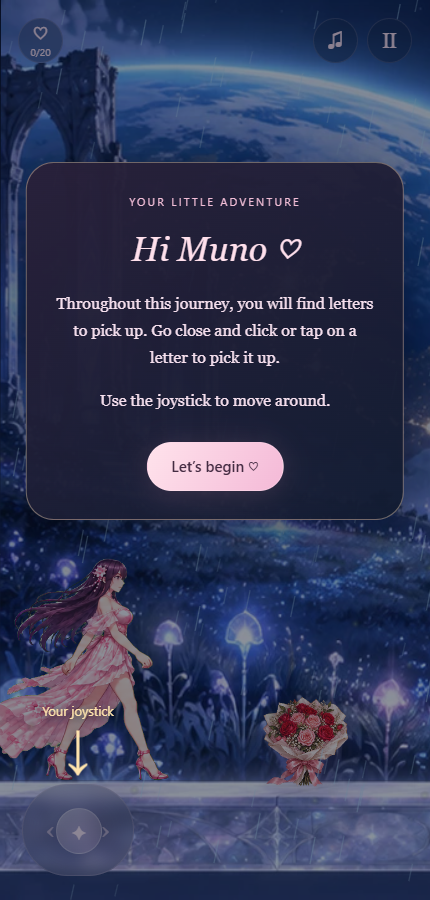
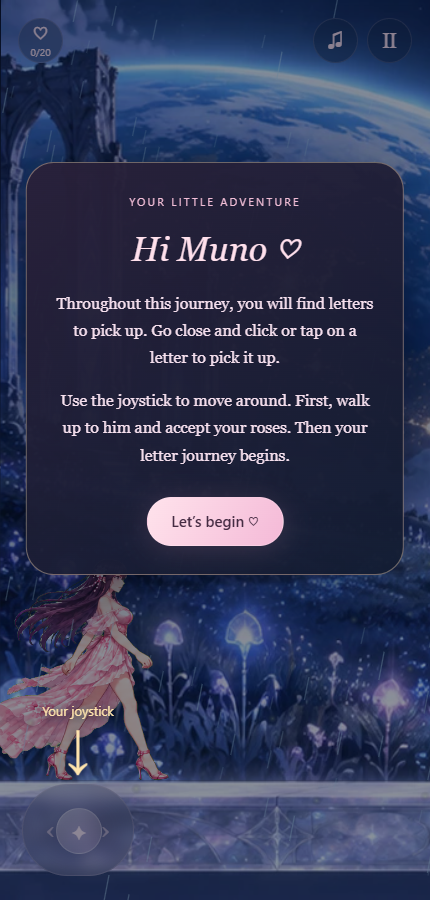
add boy

diff --git a/game.js b/game.js
@@ -11,6 +11,7 @@ let W=390,H=844,V=462,S=.844,assets={},meta={},backgrounds=[],letters=[],loaded=
 let WORLD=19800,END=19150,segmentWidth=3000,overlap=200;
 const START=125,BOUQUET=340,BASE=867;
 let phase='entrance',clock=0,total=0,x=START,velocity=0,input=0,camera=0,gait=0,face=1,carrying=false,collected=new Set(),passed=new Set(),completed=false,manualPause=false,muted=false,active=false,near=null;
+let flowerIntro={state:'idle',boy:0,start:0,from:START};
 let pointer=null,keys=new Set(),modalLetter=null,toastTimer,pickup=null;
 let cinematic={girl:0,boy:0,startGirl:0,boyStart:0},petals=[],stars=[],sparks=[],rockets=[],fireworkTimer=0,wind=0,mini=null,fireworkBeat=0,blooms=[],petalBursts=[],lastEffectCamera=0;
 const finaleVideo=$('finale-video');
@@ -51,7 +52,7 @@ $('secret').onsubmit=async e=>{e.preventDefault();if(norm($('answer').value)!==n
 function positionJourneyPointer(){const r=$('joystick').getBoundingClientRect();$('joystick-pointer').style.left=(r.left+r.width/2)+'px';$('joystick-pointer').style.top=(r.top-83)+'px';}
 function showJourneyHelp(){stop();$('journey-help').showModal();positionJourneyPointer();$('help-start').focus();updateAction();}
 $('help-start').onclick=()=>{$('journey-help').close();};
-$('journey-help').addEventListener('close',()=>{stop();updateAction();$('right').focus({preventScroll:true});});
+$('journey-help').addEventListener('close',()=>{stop();updateAction();$('right').focus({preventScroll:true});if(active&&!carrying&&flowerIntro.state==='idle')beginFlowerIntro();});
 window.addEventListener('resize',()=>{if($('journey-help').open)positionJourneyPointer();});
 window.visualViewport?.addEventListener('resize',()=>{if($('journey-help').open)positionJourneyPointer();});
 function updateCount(){$('letter-count').textContent=`${collected.size}/${letters.length}`;$('journal-button').setAttribute('aria-label',`Your letters: ${collected.size} of ${letters.length} collected`);}
@@ -103,10 +104,10 @@ $('video-play').onclick=playFinaleVideo;
 $('video-continue').onclick=finishFinaleVideo;
 finaleVideo.addEventListener('ended',finishFinaleVideo);
 finaleVideo.addEventListener('error',()=>{if(phase!=='video')return;$('video-status').textContent='The video could not load. You can try again or continue.';$('video-play').hidden=false;});
-function updateAction(){let text=null;if(phase==='explore'&&near==='bouquet')text='Pick up roses ♡';if(phase==='offer')text=C.finale.handButton;if(phase==='cake')text=C.finale.candleButton;$('action').hidden=!text||blocked();if(text)$('action').textContent=text;$('action').classList.toggle('cinematic',phase!=='explore');}
-function findNear(){near=null;if(!carrying&&Math.abs(x-BOUQUET)<155)near='bouquet';else{let d=140;letters.forEach((l,i)=>{if(Math.abs(x-l.x)<d){near=i;d=Math.abs(x-l.x);}});}updateAction();}
-$('action').onclick=()=>{if(blocked())return;if(phase==='explore'&&near==='bouquet'){beginPickup('bouquet');}else if(phase==='explore'&&Number.isInteger(near)){requestLetter(near);}else if(phase==='offer'){setPhase('hold');chime('win');for(let i=0;i<160*density;i++)petals.push(makePetal(true));}else if(phase==='cake'){setPhase('blow');chime('wind');wind=1;}};
-function requestLetter(i){if(phase!=='explore'||blocked())return;beginPickup(i);}
+function updateAction(){let text=null;if(phase==='explore'&&near==='bouquet')text='Accept his flowers ♡';if(phase==='offer')text=C.finale.handButton;if(phase==='cake')text=C.finale.candleButton;$('action').hidden=!text||blocked();if(text)$('action').textContent=text;$('action').classList.toggle('cinematic',phase!=='explore');}
+function findNear(){near=null;if(!carrying&&flowerIntro.state==='waiting'&&Math.abs(x-(BOUQUET-75))<50)near='bouquet';else{let d=140;letters.forEach((l,i)=>{if(Math.abs(x-l.x)<d){near=i;d=Math.abs(x-l.x);}});}updateAction();}
+$('action').onclick=()=>{if(blocked())return;if(phase==='explore'&&near==='bouquet'){acceptIntroFlowers();}else if(phase==='explore'&&Number.isInteger(near)){requestLetter(near);}else if(phase==='offer'){setPhase('hold');chime('win');for(let i=0;i<160*density;i++)petals.push(makePetal(true));}else if(phase==='cake'){setPhase('blow');chime('wind');wind=1;}};
+function requestLetter(i){if(phase!=='explore'||blocked()||!carrying)return;beginPickup(i);}
 function beginPickup(target){
  if(phase!=='explore'||blocked())return;
  const itemX=target==='bouquet'?BOUQUET:letters[target].x;
@@ -130,19 +131,35 @@ function pickupPose(){
 function openLetter(i){stop();modalLetter={...letters[i],i};const l=modalLetter;collected.add(i);passed.add(i);$('letter-number').textContent=`${String(i+1).padStart(2,'0')} / ${letters.length} · FOR ${C.nickname.toUpperCase()}`;$('letter-title').textContent=l.title;$('message').textContent=l.message.replaceAll('{{nickname}}',C.nickname).replaceAll('{{name}}',C.recipientName).replaceAll('{{sender}}',C.senderName);$('signature').textContent=l.signature||`With love, ${C.senderName}`;$('photo').hidden=!l.picture;if(l.picture){$('photo-img').src=l.picture;$('photo-img').alt=l.imageAlt||'Our little memory';}$('caption').textContent=l.caption||'';$('letter-animation').hidden=!l.animation.file;if(l.animation.file)$('letter-animation').src=`${l.folder}/${l.animation.file}`;$('continue').textContent=i===letters.length-1?'A little further… ♡':'Keep it in my heart ♡';$('letter').showModal();$('letter').scrollTop=0;window.writeBirthdayLetter?.($('message').textContent,i);if(l.music){song.src=l.music;song.load();}soundSync();updateCount();updateAction();}
 function closeLetter(){$('letter').close();}$('close-letter').onclick=closeLetter;$('continue').onclick=closeLetter;$('letter').addEventListener('close',()=>{if($('letter').open)return;modalLetter=null;soundSync();updateAction();});$('photo-img').onerror=()=>{$('photo').hidden=true;};$('letter-animation').onerror=()=>{$('letter-animation').hidden=true;};song.onerror=()=>{if(modalLetter){modalLetter.music=null;soundSync();}};
 function showJournal(){stop();$('journal-title').textContent=`${letters.length} little letters`;$('journal-list').replaceChildren();letters.forEach((l,i)=>{const b=document.createElement('button');b.disabled=!collected.has(i);b.textContent=collected.has(i)?`♡  ${l.title}`:`✧  Letter ${i+1}`;b.onclick=()=>{$('journal').close();openLetter(i);};$('journal-list').append(b);});$('reset-confirm').hidden=true;$('journal').showModal();updateAction();}
-$('journal-button').onclick=showJournal;$('ending-journal').onclick=showJournal;$('close-journal').onclick=()=>$('journal').close();$('journal').addEventListener('close',updateAction);$('restart').onclick=()=>{$('reset-confirm').hidden=false;};$('reset-no').onclick=()=>{$('reset-confirm').hidden=true;};$('reset-yes').onclick=()=>{collected.clear();passed.clear();carrying=false;completed=false;x=START;camera=0;bg.src=C.backgroundMusic;bg.load();$('journal').close();setPhase('explore');updateCount();soundSync();};$('replay').onclick=()=>{completed=false;beginCinema();};
+$('journal-button').onclick=showJournal;$('ending-journal').onclick=showJournal;$('close-journal').onclick=()=>$('journal').close();$('journal').addEventListener('close',updateAction);$('restart').onclick=()=>{$('reset-confirm').hidden=false;};$('reset-no').onclick=()=>{$('reset-confirm').hidden=true;};$('reset-yes').onclick=()=>{collected.clear();passed.clear();carrying=false;completed=false;x=START;camera=0;bg.src=C.backgroundMusic;bg.load();$('journal').close();setPhase('explore');updateCount();soundSync();beginFlowerIntro();};$('replay').onclick=()=>{completed=false;beginCinema();};
 function togglePause(){manualPause=!manualPause;$('pause-screen').hidden=!manualPause;$('pause').setAttribute('aria-pressed',String(manualPause));$('pause').setAttribute('aria-label',manualPause?'Continue adventure':'Pause adventure');stop();soundSync();updateAction();}$('pause').onclick=togglePause;$('resume').onclick=togglePause;
 function setInput(n){input=n;$('stick').style.transform=`translateX(${n*22}px)`;}
 function touchMove(e){if(e.pointerId!==pointer)return;const r=$('joystick').getBoundingClientRect(),dx=e.clientX-r.left-r.width/2;setInput(Math.abs(dx)<7?0:Math.sign(dx));}
 $('joystick').addEventListener('pointerdown',e=>{if(phase!=='explore'||blocked())return;pointer=e.pointerId;$('joystick').setPointerCapture(pointer);touchMove(e);e.preventDefault();});$('joystick').addEventListener('pointermove',touchMove);['pointerup','pointercancel','lostpointercapture'].forEach(n=>$('joystick').addEventListener(n,stop));
 window.addEventListener('keydown',e=>{if(!active||blocked())return;if(phase==='explore'&&['arrowright','arrowleft','a','d'].includes(e.key.toLowerCase())){e.preventDefault();keys.add(e.key.toLowerCase());setInput((keys.has('arrowright')||keys.has('d')?1:0)-(keys.has('arrowleft')||keys.has('a')?1:0));}if(e.key.toLowerCase()==='e'){if(phase==='explore'&&Number.isInteger(near))requestLetter(near);else if(!$('action').hidden)$('action').click();}});window.addEventListener('keyup',e=>{keys.delete(e.key.toLowerCase());if(pointer===null)setInput((keys.has('arrowright')||keys.has('d')?1:0)-(keys.has('arrowleft')||keys.has('a')?1:0));});['left','right'].forEach((id,i)=>{$(id).addEventListener('keydown',e=>{if(e.key===' '||e.key==='Enter'){e.preventDefault();setInput(i?1:-1);}});$(id).addEventListener('keyup',e=>{if(e.key===' '||e.key==='Enter')stop();});});window.addEventListener('blur',()=>{stop();});document.addEventListener('visibilitychange',()=>{stop();soundSync();});
+function beginFlowerIntro(){flowerIntro={state:'arriving',boy:camera+V+160,start:camera+V+160,from:x};setPhase('flowerArrival');$('live').textContent='He arrives with roses, dressed in black.';}
+function acceptIntroFlowers(){if(flowerIntro.state!=='waiting'||blocked())return;flowerIntro.from=x;flowerIntro.state='giving';setPhase('flowerAccept');}
+function tickFlowerIntro(dt){
+ if(phase==='flowerArrival'){flowerIntro.boy=mix(flowerIntro.start,BOUQUET+45,stroll(clock/3.8));if(clock>=3.8)setPhase('flowerKneel');}
+ else if(phase==='flowerKneel'){if(clock>=1.6){flowerIntro.state='waiting';setPhase('explore');toast('Come closer, my precious girl. These roses are for you. ♡');}}
+ else if(phase==='flowerAccept'){const old=x;x=mix(flowerIntro.from,BOUQUET-75,ease(clock/.5));gait+=Math.abs(x-old)/210;if(clock>=4.8){carrying=true;flowerIntro.state='farewell';setPhase('flowerFarewell');chime('win');}}
+ else if(phase==='flowerFarewell'&&clock>=1.3){flowerIntro.state='done';setPhase('explore');toast('Keep these roses close. Your letter journey begins now. ♡');}
+}
+function drawFlowerIntro(now){
+ if(phase==='flowerArrival'||phase==='flowerKneel'){drawGirl(x-camera,false,now);const frame=phase==='flowerArrival'?Math.floor(clock*6)%8:Math.min(11,8+Math.floor(clock/1.6*4));sprite('intro-boy',frame,flowerIntro.boy-camera,BASE,260,true);return;}
+ if(phase==='flowerAccept'&&clock<.5){drawGirl(x-camera,true,now);sprite('intro-boy',11,flowerIntro.boy-camera,BASE,260,true);return;}
+ const center=(BOUQUET-75+flowerIntro.boy)/2-camera;
+ if(phase==='flowerAccept')sprite('intro-giving',Math.min(7,Math.floor((clock-.5)/4.3*8)),center,BASE,260);
+ else{const fade=ease(clock/1.3);sprite('intro-giving',7,center,BASE,260,false,0,1-fade);ctx.save();ctx.globalAlpha=fade;drawGirl(x-camera,false,now);ctx.restore();}
+}
 function strollDuration(a,b){return Math.max(2.8,Math.abs(b-a)/(C.boyWalkSpeed||135));}
 function stroll(t){t=clamp(t,0,1);const r=.15;if(t<r)return t*t/(2*r*(1-r));if(t>1-r)return 1-(1-t)*(1-t)/(2*r*(1-r));return (t-r/2)/(1-r);}
 function beginCinema(){if(collected.size!==letters.length)return;stop();x=END;camera=clamp(END-V*.24,0,WORLD-V);cinematic={girl:x-camera,boy:V+180,startGirl:x-camera,boyStart:V+180,boyGait:0};setPhase('arrival');$('live').textContent='A boy approaches through the blossoms.';}
 function tick(dt){if(blocked())return;const previousBoy=cinematic.boy,previousPhase=phase;clock+=dt;total+=dt;wind=Math.max(0,wind-dt*.38);
- if(phase==='explore'){
+ if(phase.startsWith('flower')){tickFlowerIntro(dt);}
+ else if(phase==='explore'){
   velocity=mix(velocity,input*210,Math.min(1,dt*10));if(Math.abs(velocity)<1)velocity=0;
-  const limit=!carrying?BOUQUET+80:END;
+  const limit=!carrying?BOUQUET-75:END;
   x=clamp(x+velocity*dt,START,limit);if(input)face=input;if(velocity)gait+=dt*Math.abs(velocity)/210;
   camera=mix(camera,clamp(x-V*.32,0,WORLD-V),1-Math.exp(-dt*5));findNear();
   const missingAtEnd=x>=END-2&&collected.size<letters.length;$('end-reminder').hidden=!missingAtEnd;
@@ -266,7 +283,7 @@ function drawWorld(now){
  for(let i=0;i<3;i++){const px=((now*(i+1)*8+i*V*.4)%(V+600))-300;glow(px,690+i*25,230,'#cbbced09');}ctx.globalAlpha=1;ctx.globalCompositeOperation='source-over';
  for(const p of petals){if(p.z<.65)paintPetal(p,now);}
  if(active&&['explore','pickup'].includes(phase)){
-  if(!carrying&&!(phase==='pickup'&&pickup?.target==='bouquet')){glow(BOUQUET-camera,BASE-40,70,'#ffb0c640');prop(0,BOUQUET-camera,BASE-43,100,Math.sin(now*2)*.04);}
+  if(!carrying&&flowerIntro.state==='waiting')sprite('intro-boy',11,flowerIntro.boy-camera,BASE,260,true);
   letters.forEach((l,i)=>{if(phase==='pickup'&&pickup?.target===i)return;const px=l.x-camera;if(px< -100||px>V+100)return;const done=collected.has(i);glow(px,BASE-40,55,done?'#ffdca41c':'#ffbedf3d');prop(2,px,BASE-45+Math.sin(now*2+i)*5,done?52:68,Math.sin(now+i)*.07,done?.5:1);});
   if(collected.size<letters.length&&x>letters.at(-1).x-100){for(let i=0;i<25;i++){const py=500+i*14;glow(letters.at(-1).x+200-camera+Math.sin(now+i)*6,py,10,'#f2b9d554');}}
   drawGirl(x-camera,Math.abs(velocity)>5,now);
@@ -321,6 +338,7 @@ function drawRomance(now){
  if(entry<1||release>0){ctx.save();ctx.globalAlpha=1-alpha;drawGirl(cinematic.girl,false,now);sprite('gentleman',phase==='hold'?2:0,cinematic.boy,BASE,260,true);ctx.restore();}
 }
 function drawCinema(now){
+ if(phase.startsWith('flower')){drawFlowerIntro(now);return;}
  if(romancePhase()){drawRomance(now);return;}
  const travel=['arrival','walkAway','return'].includes(phase),cakeVisible=['return','cakeReveal','cake','blow','cutCake','tilt'].includes(phase);
  let sheet='gentleman',boyFrame=0;const boyFlip=phase!=='walkAway';

diff --git a/index.html b/index.html
@@ -1,4 +1,4 @@
-<!doctype html><html lang="en"><head><meta charset="utf-8"><meta name="viewport" content="width=device-width,initial-scale=1,viewport-fit=cover"><meta name="theme-color" content="#080e23"><meta name="description" content="Twenty birthday wishes on a fairy-tale journey from Earth to the Moon."><title>For Muno · A Night to Remember</title><link rel="icon" href="assets/favicon.svg"><link rel="stylesheet" href="style.css?v=18"><script defer src="config.js?v=11"></script><script defer src="letter-writing.js?v=2"></script><script defer src="game.js?v=20"></script></head><body>
+<!doctype html><html lang="en"><head><meta charset="utf-8"><meta name="viewport" content="width=device-width,initial-scale=1,viewport-fit=cover"><meta name="theme-color" content="#080e23"><meta name="description" content="Twenty birthday wishes on a fairy-tale journey from Earth to the Moon."><title>For Muno · A Night to Remember</title><link rel="icon" href="assets/favicon.svg"><link rel="stylesheet" href="style.css?v=18"><script defer src="config.js?v=11"></script><script defer src="letter-writing.js?v=2"></script><script defer src="game.js?v=21"></script></head><body>
 <main id="app"><canvas id="scene" aria-label="Earth-to-Moon birthday adventure"></canvas>
 <section id="entrance"><div id="greeting" class="gate"><span class="flower">✿</span><h1>Hi Dear.</h1><p>Are you <span id="recipient"></span>?</p><div class="choices"><button id="yes" class="primary">Yes ♡</button><button id="no" class="glass">No</button></div><p id="no-message" class="feedback" aria-live="polite"></p></div>
 <form id="secret" class="gate" hidden><span class="flower">♡</span><h1>Our little secret.</h1><label for="answer">What does he call you?</label><input id="answer" placeholder="Your special nickname" autocomplete="off" autocapitalize="off" spellcheck="false" maxlength="80" required aria-describedby="answer-message"><button id="enter" class="primary" type="submit">Enter our world ✧</button><p id="answer-message" class="feedback" aria-live="polite"></p><button id="back" class="text-button" type="button">Back</button></form></section>
@@ -6,7 +6,7 @@
 <div id="controls" hidden><div id="joystick" role="group" aria-label="Hold left or right to walk"><button id="left" aria-label="Walk left">‹</button><button id="right" aria-label="Walk right">›</button><span id="stick" aria-hidden="true">✦</span></div></div>
 <button id="action" class="primary action" hidden></button><div id="speech" hidden role="status"></div>
 <div id="pause-screen" hidden><button id="resume" class="primary">Continue ♡</button></div>
-<dialog id="journey-help" aria-labelledby="journey-help-title" aria-describedby="journey-help-text"><div class="journey-help-card"><span class="eyebrow">YOUR LITTLE ADVENTURE</span><h2 id="journey-help-title">Hi Muno ♡</h2><p id="journey-help-text">Throughout this journey, you will find letters to pick up. Go close and click or tap on a letter to pick it up.</p><p>Use the joystick to move around.</p><button id="help-start" class="primary">Let’s begin ♡</button></div><div id="joystick-pointer" aria-hidden="true"><span>Your joystick</span><b>↓</b></div></dialog>
+<dialog id="journey-help" aria-labelledby="journey-help-title" aria-describedby="journey-help-text"><div class="journey-help-card"><span class="eyebrow">YOUR LITTLE ADVENTURE</span><h2 id="journey-help-title">Hi Muno ♡</h2><p id="journey-help-text">Throughout this journey, you will find letters to pick up. Go close and click or tap on a letter to pick it up.</p><p>Use the joystick to move around. First, walk up to him and accept your roses. Then your letter journey begins.</p><button id="help-start" class="primary">Let’s begin ♡</button></div><div id="joystick-pointer" aria-hidden="true"><span>Your joystick</span><b>↓</b></div></dialog>
 <dialog id="love-question" aria-labelledby="love-title"><article class="paper"><span class="eyebrow">ONE LAST QUESTION</span><h2 id="love-title">Do you love me?</h2><div class="choices"><button id="love-yes" class="primary">Yes ♡</button><button id="love-no" class="glass">No</button></div><p id="love-plea" aria-live="polite"></p></article></dialog>
 <section id="cake-cutting" hidden aria-labelledby="cut-title"><div class="cut-card"><span class="cake-eyebrow">A WISH MADE JUST FOR YOU</span><h2 id="cut-title">Happy Birthday, Amar Jaan Tah</h2><div class="cake-confetti" aria-hidden="true"><i style="--n:0;--left:0%">♡</i><i style="--n:1;--left:43%">✦</i><i style="--n:2;--left:86%">✦</i><i style="--n:3;--left:29%">♡</i><i style="--n:4;--left:72%">✦</i><i style="--n:5;--left:15%">✦</i><i style="--n:6;--left:58%">♡</i><i style="--n:7;--left:1%">✦</i><i style="--n:8;--left:44%">✦</i><i style="--n:9;--left:87%">♡</i><i style="--n:10;--left:30%">✦</i><i style="--n:11;--left:73%">✦</i><i style="--n:12;--left:16%">♡</i><i style="--n:13;--left:59%">✦</i><i style="--n:14;--left:2%">✦</i><i style="--n:15;--left:45%">♡</i><i style="--n:16;--left:88%">✦</i><i style="--n:17;--left:31%">✦</i><i style="--n:18;--left:74%">♡</i><i style="--n:19;--left:17%">✦</i><i style="--n:20;--left:60%">✦</i><i style="--n:21;--left:3%">♡</i><i style="--n:22;--left:46%">✦</i><i style="--n:23;--left:89%">✦</i></div><div id="cake-art" role="img" aria-label="Realistic rose cake inscribed Happy Birthday Amar Jaan Tah"><div class="cake-aura"></div><div class="cake-half"><img src="assets/realistic-jaan-cake.png" alt="" draggable="false"></div><div class="cake-half"><img src="assets/realistic-jaan-cake.png" alt="" draggable="false"></div><div class="cake-knife" aria-hidden="true"></div></div><p id="cut-status" role="status"></p><progress id="cut-progress" max="1" value="0" aria-label="Cake cutting progress"></progress><button id="cut-button" class="primary">Hold to cut your cake ♡</button><span class="cake-footnote">One sweet moment. Yours to keep.</span></div></section>
 <section id="video-screen" hidden aria-label="Your birthday video"><video id="finale-video" controls playsinline preload="none" aria-label="Birthday surprise video"></video><div class="video-actions"><p id="video-status" role="status"></p><button id="video-play" class="primary" hidden>Play video ♡</button><button id="video-continue" class="glass">Continue ♡</button></div></section>

diff --git a/characters/boy/README.md b/characters/boy/README.md
@@ -45,3 +45,6 @@ Latest replacement: anime-spin-dip-16.png supersedes the 36-pose sheet. Built-in
 
 Hand kiss: anime-hand-kiss-8.png, generated with built-in imagegen using anime-hands.png as identity reference. Prompt: eight sequential poses, standing girl left, kneeling white-suit boy right, lifting her hand, bowing, lips contacting the back of her hand, lingering, looking up; exactly two arms and legs each, no bouquet, green background. Asset uses 4 columns x2 rows. Cake generated with built-in imagegen: transparent romantic blush/ivory cake, roses, pearl piping, golden crown and exact Happy birthday my princess inscription.
 
+
+Opening scene assets: intro-black-roses.png (12 poses, 4x3) and intro-rose-handover.png (8 poses, 4x2), with frame bounds in actor.json. Created using built-in imagegen with existing character references. Prompt: preserve the adult anime characters; boy in an elegant black suit walks with roses then kneels and offers them; separate sequential handover sheet with pink-dressed girl accepting the bouquet; exactly two arms per character, consistent full-body scale, solid green background. Runtime removes green and crops grid borders. Timing and scene transitions are in beginFlowerIntro, tickFlowerIntro and drawFlowerIntro in game.js.
+

diff --git a/README.md b/README.md
@@ -151,3 +151,6 @@ Princess celebration update: assets/princess-cake.png is a transparent rose-and-
 
 Latest polish: realistic-jaan-cake.png replaces the illustrated cake with photorealistic buttercream/roses and clean Happy Birthday Amar Jaan Tah lettering. Built-in imagegen prompt: real luxury two-tier ivory buttercream cake, blush roses, restrained gold leaf, clean upright dark chocolate lettering, transparent background. Hand-kiss-contact artwork corrects face/wrist overlap while keeping the eight-pose timing. Letter text is 14px, preserves line breaks without wrapping, and scrolls on both axes as needed. Existing message files were preserved. Tap a nearby letter to open its challenge or message immediately; no bottom letter action. Missing letters at the endpoint show a persistent reminder and block the finale. Browser checks: verify-letter-controls.cjs and verify-celebration.cjs passed.
 
+
+Opening bouquet scene: after the welcome instructions, the boy arrives in black, kneels, and waits for the girl. Walk close and choose Accept his flowers to play the handover. Letter collection unlocks after the handover. Restarting repeats this scene. Verified with tests/verify-flower-intro.cjs.
+
